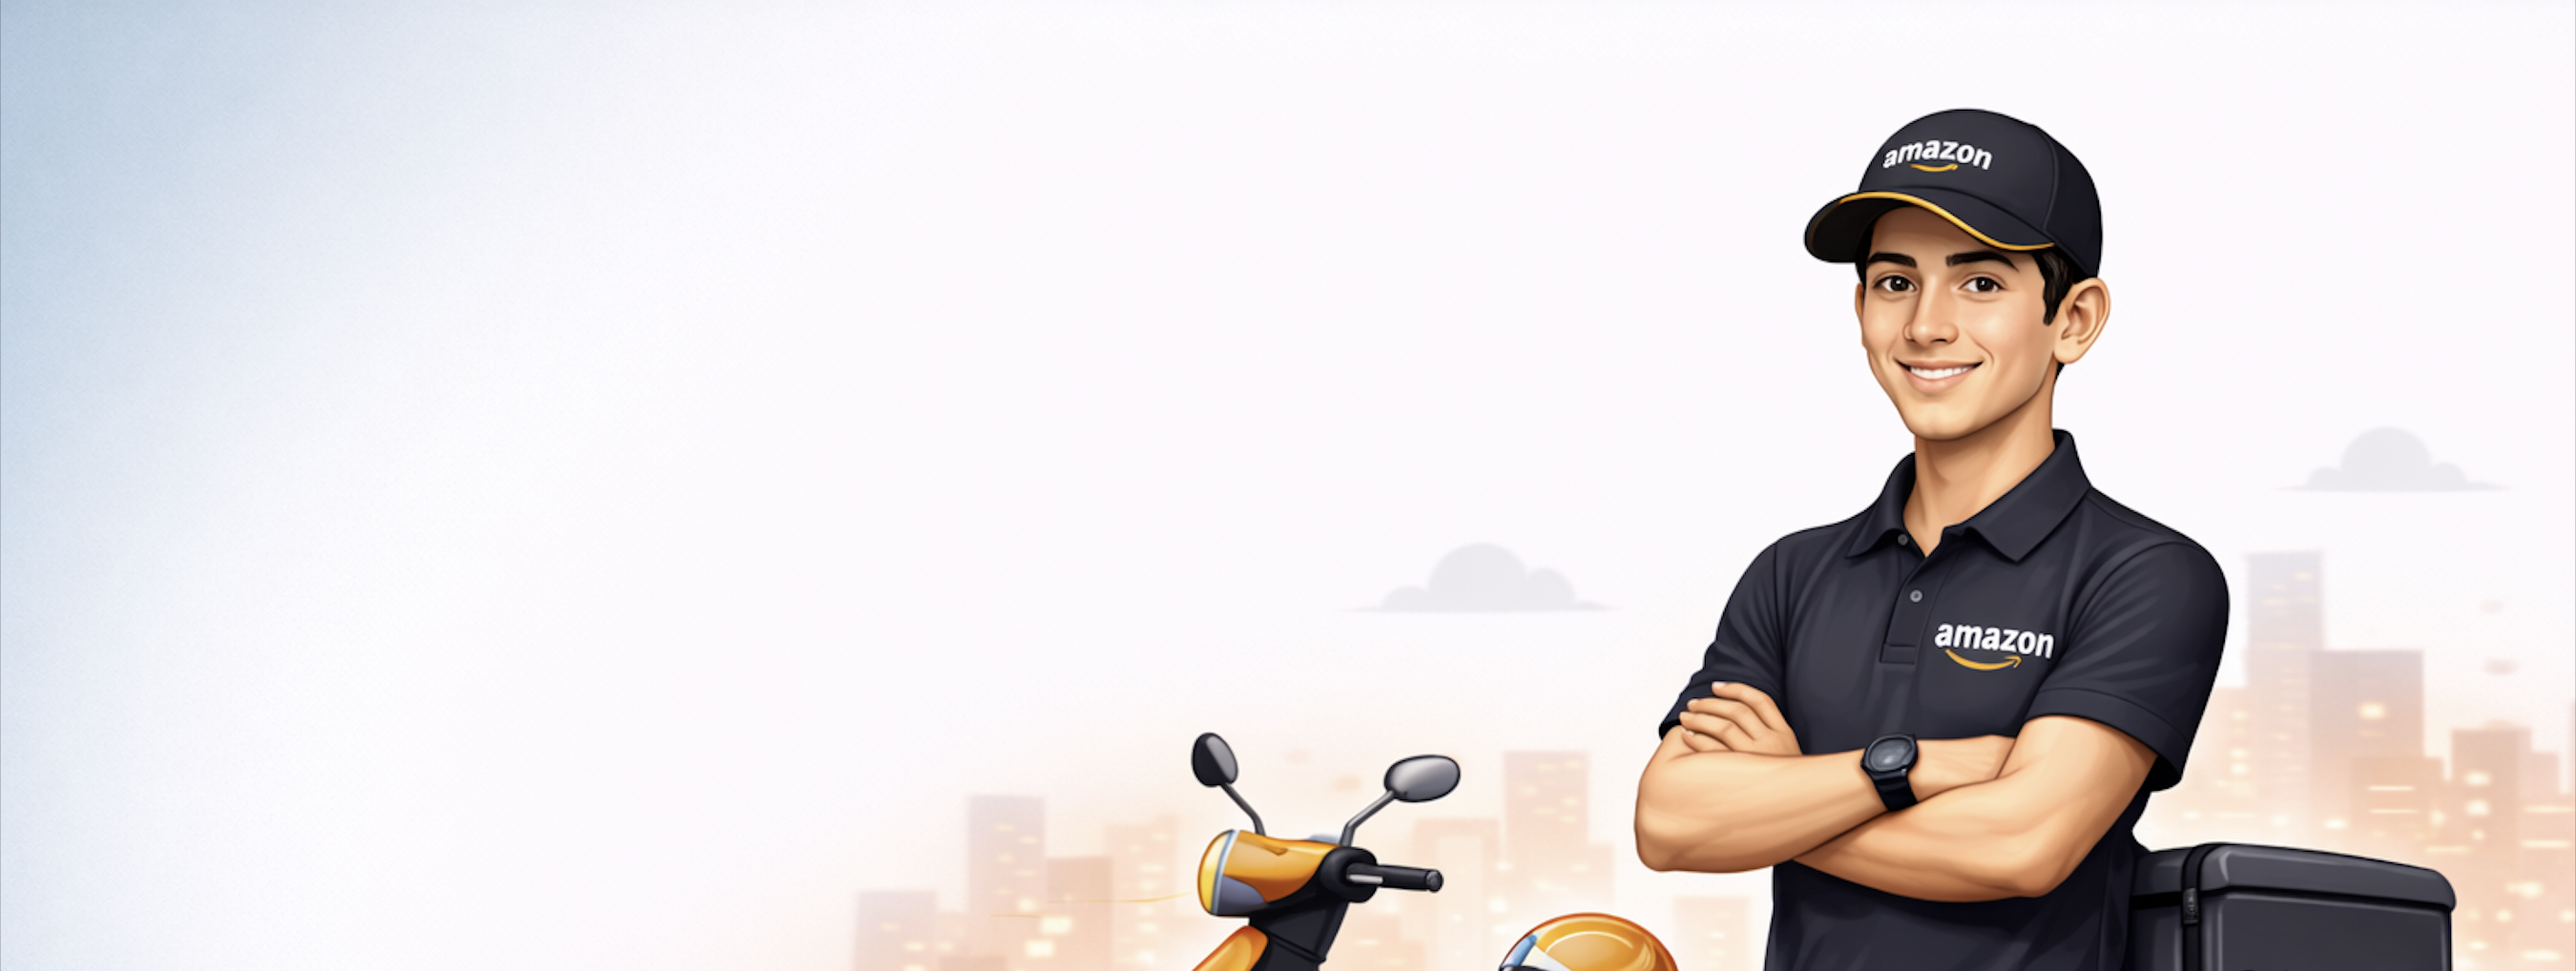
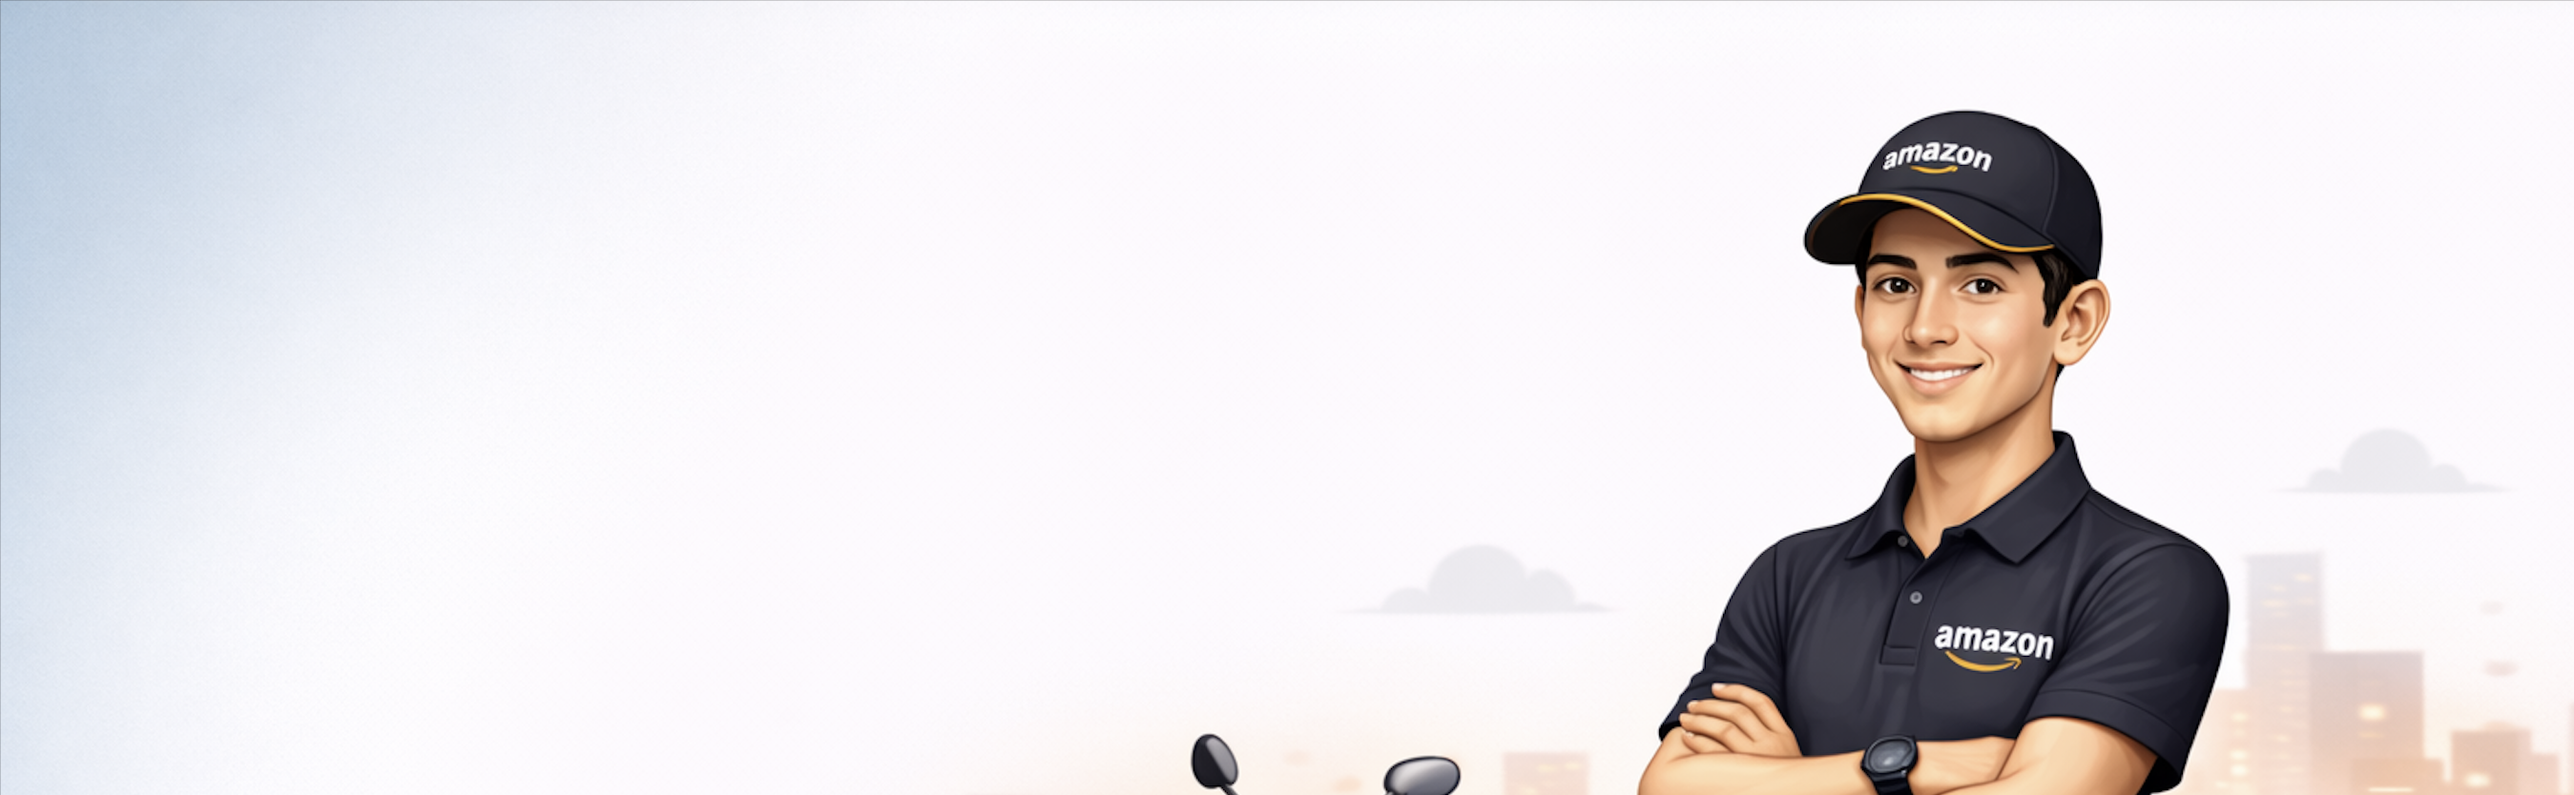
Updated Functionality in Admin Dashboard

Changed region(s): [[0.3113, 0.0935, 1.0, 1.0], [0.9963, 0.0, 1.0, 0.0312]]

diff --git a/frontend/src/pages/AdminDashboard.jsx b/frontend/src/pages/AdminDashboard.jsx
@@ -11,6 +11,7 @@ import {
   adminReplyQuery,
   adminChangeCredentials,
 } from "../api";
+import adminBanner from "../../../assets/adminbanner.png";
 import {
   FaShieldAlt, FaTachometerAlt, FaUsers, FaClipboardCheck,
   FaQuestionCircle, FaClipboardList, FaMoneyBillWave, FaCog,
@@ -321,36 +322,41 @@ export default function AdminDashboard() {
   ══════════════════════════════════════ */
   const renderOverview = () => (
     <>
-      {/* Banner — overview only */}
-      <div className="bg-gradient-to-r from-green-500 to-emerald-600 rounded-2xl px-6 sm:px-8 py-6 sm:py-8 mb-6 shadow-sm overflow-hidden relative">
-        {/* SVG illustration */}
-        <div className="absolute right-0 top-0 h-full flex items-center pointer-events-none select-none">
-          <svg viewBox="0 0 320 160" className="h-full w-auto opacity-[0.12]" fill="white" xmlns="http://www.w3.org/2000/svg">
-            <circle cx="240" cy="80" r="110" />
-            <rect x="130" y="30" width="130" height="100" rx="14" />
-            <rect x="148" y="52" width="60" height="8" rx="4" fill="rgba(0,0,0,0.3)" />
-            <rect x="148" y="68" width="40" height="8" rx="4" fill="rgba(0,0,0,0.2)" />
-            <rect x="148" y="84" width="80" height="8" rx="4" fill="rgba(0,0,0,0.2)" />
-            <rect x="148" y="100" width="50" height="8" rx="4" fill="rgba(0,0,0,0.2)" />
-            <circle cx="230" cy="40" r="20" fill="white" />
-            <path d="M222 40 l6 7 l11-14" stroke="#22c55e" strokeWidth="3.5" strokeLinecap="round" strokeLinejoin="round" fill="none" />
-            <circle cx="50" cy="130" r="45" fillOpacity="0.4" />
-            <circle cx="290" cy="150" r="30" fillOpacity="0.3" />
-          </svg>
-        </div>
-        <div className="relative z-10">
-          <p className="text-green-100 text-xs font-semibold uppercase tracking-[0.18em] mb-1.5">Welcome back, Admin</p>
-          <h1 className="text-2xl sm:text-3xl font-black text-white tracking-tight leading-none mb-2">Admin Dashboard</h1>
-          <p className="text-green-100 text-sm">Here's what's happening on your platform today.</p>
-        </div>
-        <div className="relative z-10 mt-4 sm:mt-0 sm:absolute sm:right-6 sm:top-1/2 sm:-translate-y-1/2">
-          <div className="inline-flex items-center gap-3 bg-white/15 border border-white/20 rounded-xl px-4 py-3">
-            <div className="w-9 h-9 bg-white/20 rounded-lg flex items-center justify-center">
-              <FaBell className="text-white text-sm" />
-            </div>
-            <div>
-              <p className="text-green-100 text-xs">Pending actions</p>
-              <p className="text-2xl font-black text-white leading-none">{pendingApprovals + unansweredQ}</p>
+      {/* Banner — overview only, using adminbanner image */}
+      <div className="relative w-full rounded-2xl overflow-hidden mb-6 shadow-sm bg-green-600 h-40 sm:h-48 lg:h-56">
+        {/* Banner image — covers full area, object-cover for all screens */}
+        <img
+          src={adminBanner}
+          alt="Admin Banner"
+          className="absolute inset-0 w-full h-full object-cover object-center"
+          draggable={false}
+        />
+        {/* Dark overlay so text stays readable over any image */}
+        <div className="absolute inset-0 bg-gradient-to-r from-black/55 via-black/30 to-transparent" />
+
+        {/* Content */}
+        <div className="relative z-10 flex flex-col sm:flex-row sm:items-center sm:justify-between gap-4 px-6 sm:px-8 py-6 sm:py-8">
+          <div>
+            <p className="text-green-200 text-xs font-semibold uppercase tracking-[0.18em] mb-1.5">
+              Welcome back, Admin
+            </p>
+            <h1 className="text-2xl sm:text-3xl font-black text-white tracking-tight leading-none mb-2 drop-shadow">
+              Admin Dashboard
+            </h1>
+            <p className="text-gray-200 text-sm">
+              Here's what's happening on your platform today.
+            </p>
+          </div>
+
+          <div className="shrink-0">
+            <div className="inline-flex items-center gap-3 bg-black/30 border border-white/20 rounded-xl px-4 py-3 backdrop-blur-sm">
+              <div className="w-9 h-9 bg-white/20 rounded-lg flex items-center justify-center">
+                <FaBell className="text-white text-sm" />
+              </div>
+              <div>
+                <p className="text-gray-300 text-xs">Pending actions</p>
+                <p className="text-2xl font-black text-white leading-none">{pendingApprovals + unansweredQ}</p>
+              </div>
             </div>
           </div>
         </div>
@@ -448,19 +454,22 @@ export default function AdminDashboard() {
         <p className="text-sm text-gray-500"><span className="font-semibold text-gray-700">{users.length}</span> users registered</p>
       </div>
       <div className="overflow-x-auto">
-        <table className="w-full text-sm min-w-[560px]">
+        <table className="w-full text-sm min-w-[600px]">
           <thead>
             <tr className="text-gray-400 text-xs uppercase tracking-wide border-b border-gray-100 bg-gray-50/50">
+              <th className="px-4 py-3 text-left font-semibold w-10">#</th>
+              <th className="px-5 sm:px-6 py-3 text-left font-semibold">ID</th>
               <th className="px-5 sm:px-6 py-3 text-left font-semibold">User</th>
               <th className="px-5 sm:px-6 py-3 text-left font-semibold">Email</th>
               <th className="px-5 sm:px-6 py-3 text-left font-semibold">Phone</th>
-              <th className="px-5 sm:px-6 py-3 text-left font-semibold">ID</th>
               <th className="px-5 sm:px-6 py-3 text-center font-semibold">Action</th>
             </tr>
           </thead>
           <tbody className="divide-y divide-gray-50">
-            {users.map((u) => (
+            {users.map((u, idx) => (
               <tr key={u.id} className="hover:bg-gray-50/60 transition">
+                <td className="px-4 py-3.5 text-gray-300 text-xs font-medium">{idx + 1}</td>
+                <td className="px-5 sm:px-6 py-3.5 text-left text-gray-400 text-xs font-mono">{u.id}</td>
                 <td className="px-5 sm:px-6 py-3.5">
                   <div className="flex items-center gap-2.5">
                     <Avatar name={u.name} />
@@ -469,7 +478,6 @@ export default function AdminDashboard() {
                 </td>
                 <td className="px-5 sm:px-6 py-3.5 text-gray-500">{u.email}</td>
                 <td className="px-5 sm:px-6 py-3.5 text-gray-500">{u.phone}</td>
-                <td className="px-5 sm:px-6 py-3.5 text-left text-gray-300 text-xs font-mono">{u.id}</td>
                 <td className="px-5 sm:px-6 py-3.5 text-center">
                   <button
                     onClick={() => handleDelete(u.id)}
@@ -480,7 +488,7 @@ export default function AdminDashboard() {
                 </td>
               </tr>
             ))}
-            {users.length === 0 && <tr><td colSpan={5} className="px-6 py-12 text-center text-gray-300">No users found</td></tr>}
+            {users.length === 0 && <tr><td colSpan={6} className="px-6 py-12 text-center text-gray-300">No users found</td></tr>}
           </tbody>
         </table>
       </div>
@@ -513,16 +521,19 @@ export default function AdminDashboard() {
             <table className="w-full text-sm min-w-[540px]">
               <thead>
                 <tr className="text-gray-400 text-xs uppercase tracking-wide border-b border-gray-100 bg-gray-50/50">
+                  <th className="px-4 py-3 text-left font-semibold w-10">#</th>
+                  <th className="px-5 sm:px-6 py-3 text-left font-semibold">ID</th>
                   <th className="px-5 sm:px-6 py-3 text-left font-semibold">User</th>
                   <th className="px-5 sm:px-6 py-3 text-left font-semibold">Amount</th>
                   <th className="px-5 sm:px-6 py-3 text-left font-semibold">Status</th>
-                  <th className="px-5 sm:px-6 py-3 text-left font-semibold">ID</th>
                   <th className="px-5 sm:px-6 py-3 text-center font-semibold">Action</th>
                 </tr>
               </thead>
               <tbody className="divide-y divide-gray-50">
-                {payments.map((p) => (
+                {payments.map((p, idx) => (
                   <tr key={p.id} className="hover:bg-gray-50/60 transition">
+                    <td className="px-4 py-3.5 text-gray-300 text-xs font-medium">{idx + 1}</td>
+                    <td className="px-5 sm:px-6 py-3.5 text-left text-gray-400 text-xs font-mono">{p.id}</td>
                     <td className="px-5 sm:px-6 py-3.5">
                       <div className="flex items-center gap-2.5">
                         <Avatar name={p.user?.email} />
@@ -531,7 +542,6 @@ export default function AdminDashboard() {
                     </td>
                     <td className="px-5 sm:px-6 py-3.5 font-semibold text-gray-700">₹{p.amount}</td>
                     <td className="px-5 sm:px-6 py-3.5"><StatusBadge status={p.status} /></td>
-                    <td className="px-5 sm:px-6 py-3.5 text-left text-gray-300 text-xs font-mono">{p.id}</td>
                     <td className="px-5 sm:px-6 py-3.5 text-center">
                       {p.status === "PENDING" && (
                         <button onClick={() => handleApprove(p.id)} className="inline-flex items-center gap-1.5 px-3 py-1.5 bg-green-50 text-green-600 hover:bg-green-100 text-xs rounded-lg font-medium transition border border-green-200">
@@ -543,7 +553,7 @@ export default function AdminDashboard() {
                     </td>
                   </tr>
                 ))}
-                {payments.length === 0 && <tr><td colSpan={5} className="px-6 py-12 text-center text-gray-300">No records found</td></tr>}
+                {payments.length === 0 && <tr><td colSpan={6} className="px-6 py-12 text-center text-gray-300">No records found</td></tr>}
               </tbody>
             </table>
           </div>
@@ -653,16 +663,19 @@ export default function AdminDashboard() {
         <table className="w-full text-sm min-w-[520px]">
           <thead>
             <tr className="text-gray-400 text-xs uppercase tracking-wide border-b border-gray-100 bg-gray-50/50">
+              <th className="px-4 py-3 text-left font-semibold w-10">#</th>
+              <th className="px-5 sm:px-6 py-3 text-left font-semibold">ID</th>
               <th className="px-5 sm:px-6 py-3 text-left font-semibold">User</th>
               <th className="px-5 sm:px-6 py-3 text-left font-semibold">Amount</th>
               <th className="px-5 sm:px-6 py-3 text-left font-semibold">Status</th>
-              <th className="px-5 sm:px-6 py-3 text-left font-semibold">ID</th>
               <th className="px-5 sm:px-6 py-3 text-center font-semibold">Action</th>
             </tr>
           </thead>
           <tbody className="divide-y divide-gray-50">
-            {payments.map((p) => (
+            {payments.map((p, idx) => (
               <tr key={p.id} className="hover:bg-gray-50/60 transition">
+                <td className="px-4 py-3.5 text-gray-300 text-xs font-medium">{idx + 1}</td>
+                <td className="px-5 sm:px-6 py-3.5 text-left text-gray-400 text-xs font-mono">{p.id}</td>
                 <td className="px-5 sm:px-6 py-3.5">
                   <div className="flex items-center gap-2.5">
                     <Avatar name={p.user?.email} />
@@ -671,7 +684,6 @@ export default function AdminDashboard() {
                 </td>
                 <td className="px-5 sm:px-6 py-3.5 font-semibold text-gray-700">₹{p.amount}</td>
                 <td className="px-5 sm:px-6 py-3.5"><StatusBadge status={p.status} /></td>
-                <td className="px-5 sm:px-6 py-3.5 text-left text-gray-300 text-xs font-mono">{p.id}</td>
                 <td className="px-5 sm:px-6 py-3.5 text-center">
                   {p.status === "PENDING" && (
                     <button onClick={() => handleApprove(p.id)} className="inline-flex items-center gap-1.5 px-3 py-1.5 bg-green-50 text-green-600 hover:bg-green-100 text-xs rounded-lg font-medium transition border border-green-200">
@@ -682,7 +694,7 @@ export default function AdminDashboard() {
                 </td>
               </tr>
             ))}
-            {payments.length === 0 && <tr><td colSpan={5} className="px-6 py-12 text-center text-gray-300">No payment records</td></tr>}
+            {payments.length === 0 && <tr><td colSpan={6} className="px-6 py-12 text-center text-gray-300">No payment records</td></tr>}
           </tbody>
         </table>
       </div>
